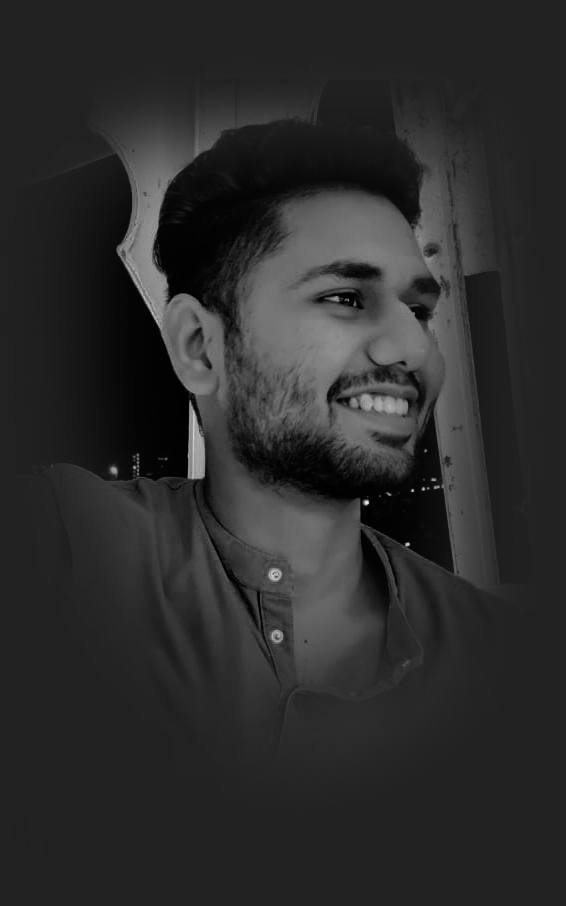
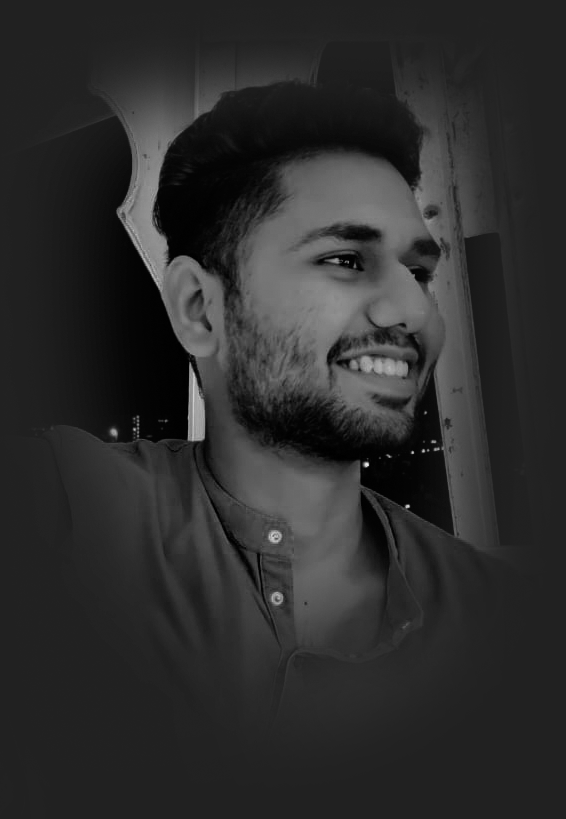
-

diff --git a/src/components/heroStyles.css b/src/components/heroStyles.css
@@ -8,7 +8,7 @@
   width: 100%;
   min-height: 100vh;
   background-color: #fff;
-  padding-top: 6rem;
+  padding-top: 5rem;
   padding-left: 8rem;
   padding-right: 8rem;
   padding-bottom: 2rem;
@@ -94,11 +94,10 @@
   z-index: 2;
   display: flex;
   flex-direction: column;
-  justify-content: space-between;
-  transition: 3s;
+  justify-content: center;
+  align-items: center;
   position: relative;
   gap: 2rem;
-  padding: 2rem;
 }
 
 .picture img {
@@ -147,8 +146,11 @@
 
 .hero-list-icons {
   display: flex;
-  flex-direction: row;
+  flex-direction: column;
   gap: 0.8rem;
+  position: absolute;
+  left: 4%;
+  top: 30%;
 }
 
 .hero-footer-icon-btn {
@@ -157,6 +159,7 @@
   padding: 0.5rem;
   background-color: transparent;
   border: none;
+  cursor: pointer;
 }
 
 .hero-footer-icon-btn .icon {
@@ -166,7 +169,22 @@
 }
 
 .picture img {
-  transition: 3s;
+  height: 90%;
+  width: 80%;
+  opacity: 0;
+  animation: imageAppear 5s linear forwards;
+}
+
+@keyframes imageAppear {
+  0% {
+    opacity: 0;
+  }
+  50% {
+    opacity: 0;
+  }
+  100% {
+    opacity: 1;
+  }
 }
 
 @keyframes blob2animate {
@@ -219,7 +237,7 @@
     flex-direction: column-reverse;
     padding: 2rem 2rem;
     margin-top: 3.8rem;
-    gap: 1rem;
+    gap: 4rem;
   }
 
   .intro {
@@ -230,7 +248,6 @@
   .picture {
     width: 100%;
     gap: 5rem;
-    height: 80vh;
   }
 
   .intro h1 {
@@ -282,5 +299,11 @@
 
   .picture img {
     width: 100%;
+  }
+
+  .hero-list-icons {
+    flex-direction: row;
+    top: 40%;
+    left: 10%;
   }
 }

diff --git a/src/components/HeroSection.jsx b/src/components/HeroSection.jsx
@@ -76,15 +76,15 @@ const HeroSection = ({ darkMode, heroRef, refArray, dispatch }) => {
           {darkMode && (
             <img src={`${darkImage}`} alt="dark" className="dark-mode-img" />
           )}
-          <div className="hero-list-icons">
-            {mediaItems.map((item, index) => {
-              return (
-                <a href={`${item.link}`} key={index}>
-                  <button className="hero-footer-icon-btn">{item.icon}</button>
-                </a>
-              );
-            })}
-          </div>
+        </div>
+        <div className="hero-list-icons">
+          {mediaItems.map((item, index) => {
+            return (
+              <a href={`${item.link}`} key={index}>
+                <button className="hero-footer-icon-btn">{item.icon}</button>
+              </a>
+            );
+          })}
         </div>
       </div>
     </section>
